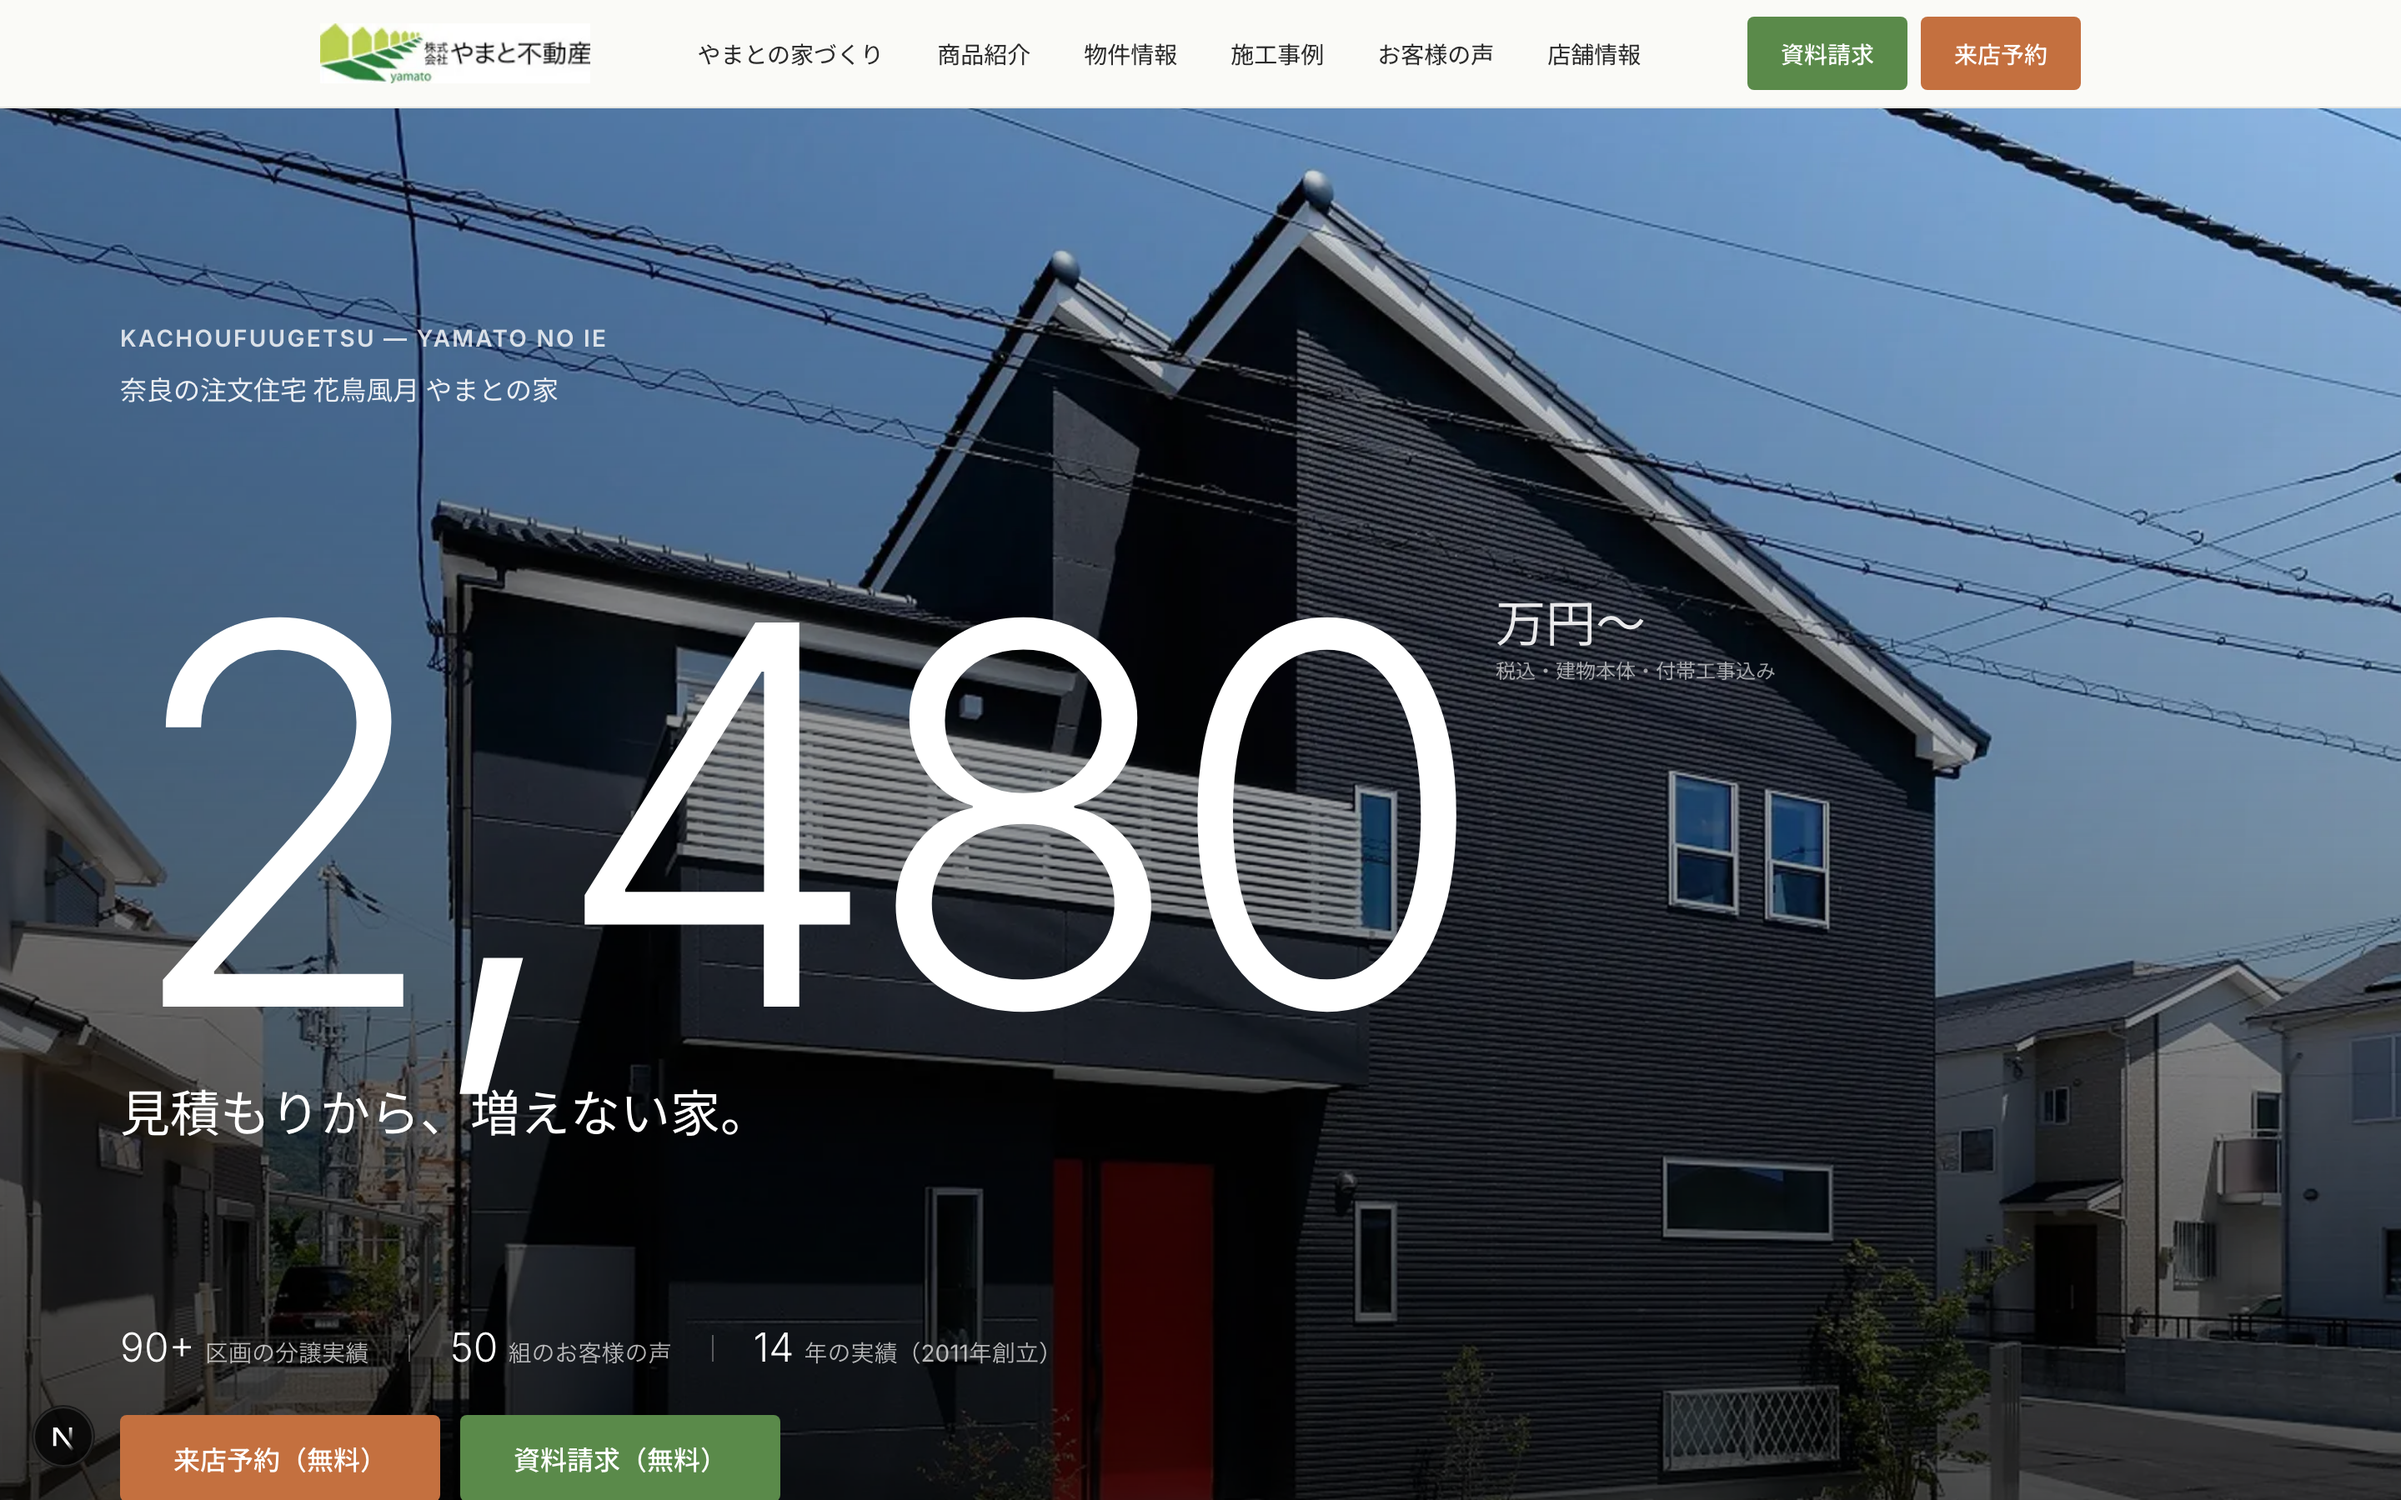
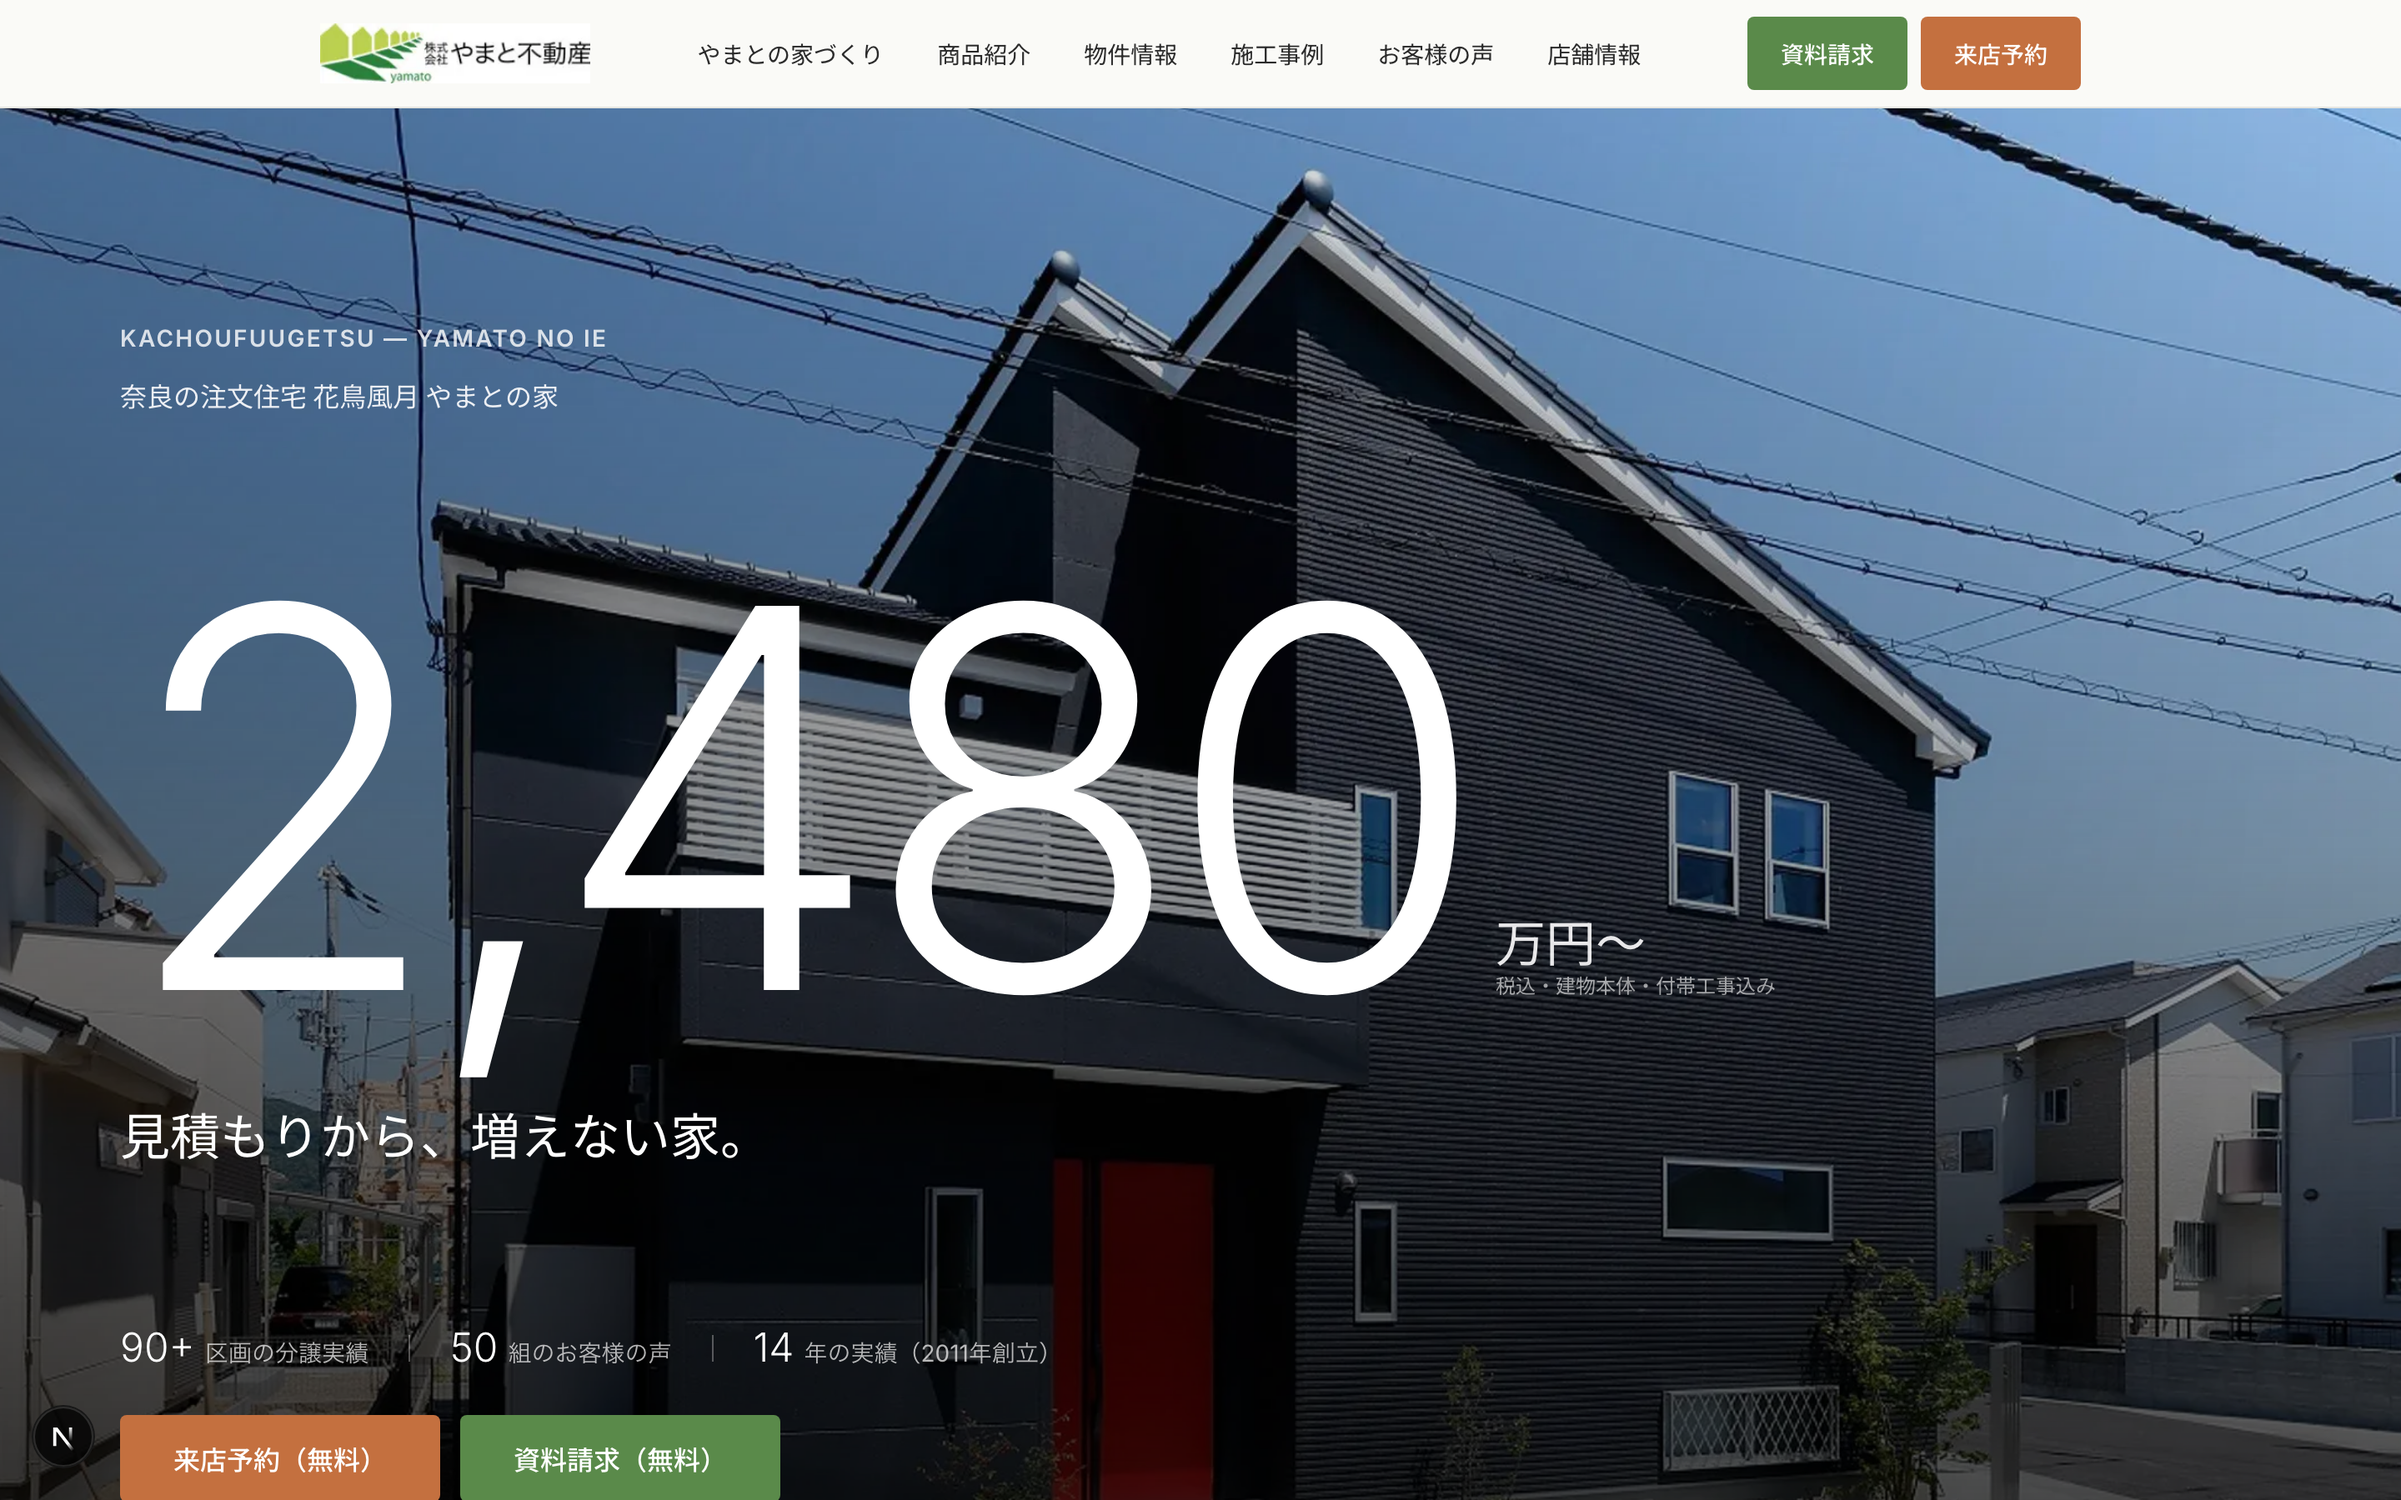
fix: Hero FV のレイアウト不備を全面修正
【神野さんの目視指摘から発見】
スクリーンショットレビューで以下の問題を発見・修正:

1. 「万円〜」「税込・建物本体・付帯工事込み」が 2,480 の中段に浮いていた
   - 原因: items-start + justify-end の Flexbox で inner div が短くなり
     justify-end が機能していなかった
   - 修正: items-end に変更してベースライン揃えに

2. 「見積もりから、増えない家。」が数字に密着していた
   - mt-4 md:mt-6 → mt-8 md:mt-10 lg:mt-12 に拡大
   - 巨大数字とのスケール差に見合う余白を確保

3. 信頼バッジ3項目の縦棒セパレータが消えていた
   - 原因: hidden sm:inline-block で条件付き非表示
   - 修正: inline-block に変更で常時表示
   - gap-x-6 → gap-x-5 md:gap-x-6 で SP でも詰まりすぎないように

4. CTA2つがビューポートによって縦積みになる不具合
   - 原因: flex flex-wrap で wrap 発生
   - 修正: flex flex-col sm:flex-row で SP縦/sm以上横と明示
   - padding px-8 → px-6 md:px-8 でコンパクト化

5. 上部シリーズ名の詰まりを解消
   - KACHOUFUUGETSU と日本語の間隔を mb-2 → mb-3 + mt-1 で

diff --git a/src/components/sections/HeroCatalog.tsx b/src/components/sections/HeroCatalog.tsx
@@ -80,11 +80,11 @@ export default function HeroCatalog() {
           {/* 上部: シリーズ名 */}
           <div className="pt-24 md:pt-28 lg:pt-32 px-[var(--page-px)]">
             <div className="max-w-[1400px] mx-auto">
-              <p className="font-section-label text-white/80 text-xs md:text-sm tracking-[0.2em] mb-2">
+              <p className="font-section-label text-white/80 text-xs md:text-sm tracking-[0.2em] mb-3">
                 KACHOUFUUGETSU — YAMATO NO IE
               </p>
               <p
-                className="text-white/90 text-sm md:text-base"
+                className="text-white/90 text-sm md:text-base mt-1"
                 style={{ fontFamily: "var(--font-sans)" }}
               >
                 奈良の注文住宅 花鳥風月 やまとの家
@@ -95,7 +95,8 @@ export default function HeroCatalog() {
           {/* 中央: オーバーサイズ価格 */}
           <div className="flex-1 flex items-center px-[var(--page-px)] py-12">
             <div className="max-w-[1400px] mx-auto w-full">
-              <div className="flex items-start gap-2 md:gap-4 leading-none">
+              {/* items-end で「万円〜」と補足を数字のベースラインに揃える */}
+              <div className="flex items-end gap-2 md:gap-4 leading-none">
                 <span
                   className="text-white font-light whitespace-nowrap"
                   style={{
@@ -107,18 +108,18 @@ export default function HeroCatalog() {
                 >
                   2,480
                 </span>
-                <div className="flex flex-col justify-end pb-2 md:pb-4 lg:pb-8">
-                  <span className="text-white/90 text-lg md:text-2xl lg:text-3xl font-normal">
+                <div className="flex flex-col gap-1 pb-2 md:pb-3 lg:pb-4">
+                  <span className="text-white/90 text-lg md:text-2xl lg:text-3xl font-normal leading-none">
                     万円〜
                   </span>
-                  <span className="text-white/60 text-[10px] md:text-xs mt-1">
+                  <span className="text-white/60 text-[10px] md:text-xs leading-tight">
                     税込・建物本体・付帯工事込み
                   </span>
                 </div>
               </div>
 
               <p
-                className="text-white text-lg md:text-2xl lg:text-3xl font-normal mt-4 md:mt-6 max-w-xl"
+                className="text-white text-lg md:text-2xl lg:text-3xl font-normal mt-8 md:mt-10 lg:mt-12 max-w-xl"
                 style={{ fontFamily: "var(--font-sans)" }}
               >
                 見積もりから、増えない家。
@@ -129,8 +130,8 @@ export default function HeroCatalog() {
           {/* 下部: 権威バッジ + CTA */}
           <div className="pb-10 md:pb-16 px-[var(--page-px)]">
             <div className="max-w-[1400px] mx-auto">
-              {/* 権威バッジ */}
-              <div className="flex flex-wrap items-center gap-x-6 gap-y-2 mb-6 text-white/85 text-xs md:text-sm">
+              {/* 権威バッジ — 縦棒セパレータを常時表示 */}
+              <div className="flex flex-wrap items-center gap-x-5 md:gap-x-6 gap-y-3 mb-6 text-white/85 text-xs md:text-sm">
                 <span
                   className="flex items-baseline gap-1.5"
                   style={{ fontFamily: "var(--font-inter), Inter, sans-serif" }}
@@ -140,7 +141,7 @@ export default function HeroCatalog() {
                   </span>
                   <span className="text-white/70">区画の分譲実績</span>
                 </span>
-                <span className="w-px h-4 bg-white/30 hidden sm:inline-block" />
+                <span className="w-px h-4 bg-white/30 inline-block" />
                 <span
                   className="flex items-baseline gap-1.5"
                   style={{ fontFamily: "var(--font-inter), Inter, sans-serif" }}
@@ -150,7 +151,7 @@ export default function HeroCatalog() {
                   </span>
                   <span className="text-white/70">組のお客様の声</span>
                 </span>
-                <span className="w-px h-4 bg-white/30 hidden sm:inline-block" />
+                <span className="w-px h-4 bg-white/30 inline-block" />
                 <span
                   className="flex items-baseline gap-1.5"
                   style={{ fontFamily: "var(--font-inter), Inter, sans-serif" }}
@@ -162,17 +163,17 @@ export default function HeroCatalog() {
                 </span>
               </div>
 
-              {/* CTA */}
-              <div className="flex flex-wrap gap-3">
+              {/* CTA — SP で縦積み、sm以上で横並び */}
+              <div className="flex flex-col sm:flex-row gap-3">
                 <a
                   href="/reserve"
-                  className="flex items-center justify-center min-h-[52px] px-8 py-3.5 rounded bg-accent text-white text-base font-medium transition-all hover:opacity-90 hover:-translate-y-0.5 hover:shadow-[0_8px_32px_rgba(196,112,63,0.4)]"
+                  className="flex items-center justify-center min-h-[52px] px-6 md:px-8 py-3.5 rounded bg-accent text-white text-base font-medium transition-all hover:opacity-90 hover:-translate-y-0.5 hover:shadow-[0_8px_32px_rgba(196,112,63,0.4)]"
                 >
                   来店予約（無料）
                 </a>
                 <a
                   href="/contact"
-                  className="flex items-center justify-center min-h-[52px] px-8 py-3.5 rounded bg-main text-white text-base font-medium transition-all hover:bg-main-dark hover:-translate-y-0.5"
+                  className="flex items-center justify-center min-h-[52px] px-6 md:px-8 py-3.5 rounded bg-main text-white text-base font-medium transition-all hover:bg-main-dark hover:-translate-y-0.5"
                 >
                   資料請求（無料）
                 </a>
